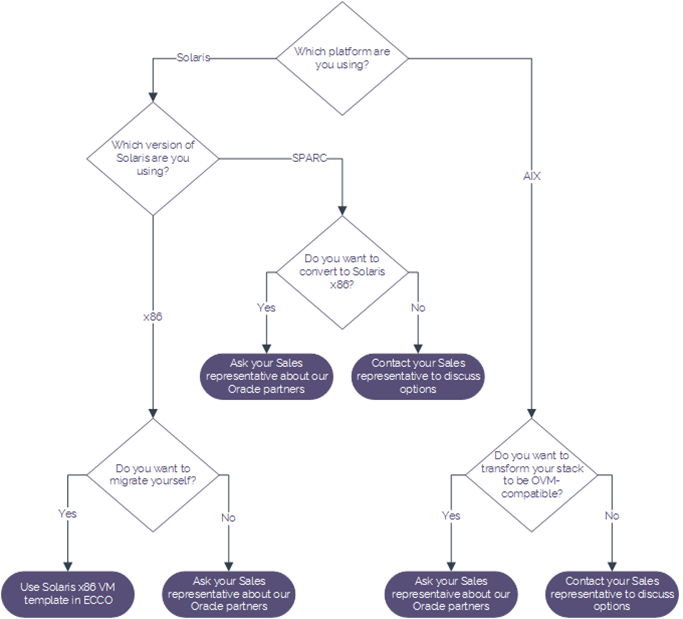
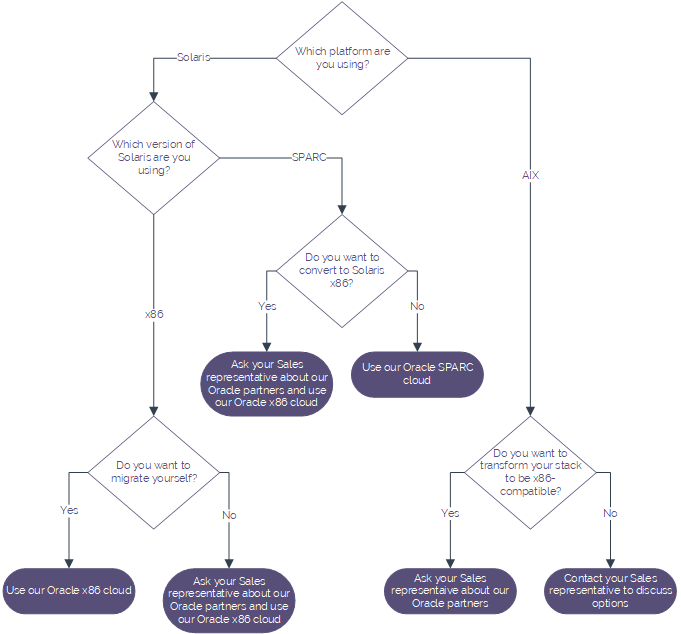
Review updates for Oracle articles

diff --git a/articles/oracle/orcl-ref-solaris-aix.md b/articles/oracle/orcl-ref-solaris-aix.md
@@ -3,8 +3,8 @@ title: Compatibility with Solaris and AIX | UKCloud Ltd
 description: Provides advice on how to migrate your applications to UKCloud for Oracle Software depending on the Oracle platform you're using
 services: oracle
 author: Sue Highmoor
-reviewer:
-lastreviewed: 12/10/2018 17:42:06
+reviewer: bchallis
+lastreviewed: 24/01/2020
 
 toc_rootlink: Reference
 toc_sub1: 
@@ -30,15 +30,15 @@ Use the diagram below to determine if your current platform is compatible with o
 
 ## Solaris x86
 
-As Solaris x86 is compatible with virtualisation, it's possible to bring your Solaris workload to our Oracle cloud. We provide a Solaris x86 template for you to use to build your Oracle virtual machines.
+Solaris x86 is compatible with our x86 Oracle cloud service so you can bring your Solaris workload to us. We provide a Solaris x86 template for you to use to build your Oracle virtual machines.
 
 You may need to talk to your Service Delivery Manager or Cloud Architect to help with the specifics of the project.
 
 ## Solaris SPARC
 
-SPARC is a flavour of Solaris that requires SPARC servers to function. However, it may be possible to transform your workload to be compatible with OVM by converting it to Solaris x86.
+We support Solaris on our Oracle SPARC cloud so you can bring your Solaris SPARC workloads to us without needing to transform them.
 
-If you want to use UKCloud for Oracle Software with SPARC, contact your Service Delivery Manager or Cloud Architect to discuss how you could achieve this.
+If you want to use UKCloud for Oracle Software with SPARC, contact your Service Delivery Manager or Cloud Architect to help with the specifics of the project.
 
 ## AIX
 

diff --git a/articles/oracle/orcl-ref-bug-self-service.md b/articles/oracle/orcl-ref-bug-self-service.md
@@ -3,8 +3,8 @@ title: Oracle cloud self-service functionality (bug notification) | UKCloud Ltd
 description: Contains information about changes to the self-service functionality for UKCloud for Oracle Software
 services: oracle
 author: Sue Highmoor
-reviewer:
-lastreviewed: 19/07/2018 15:17:17
+reviewer: bchallis
+lastreviewed: 24/01/2020
 toc_rootlink: Reference
 toc_sub1: 
 toc_sub2:

diff --git a/articles/oracle/orcl-ref-vm-compatibility.md b/articles/oracle/orcl-ref-vm-compatibility.md
@@ -3,8 +3,8 @@ title: VM compatibility with UKCloud for Oracle Software | UKCloud Ltd
 description: Provides information about the compatibility of Oracle virtual machines with UKCloud for Oracle Software
 services: oracle
 author: Sue Highmoor
-reviewer:
-lastreviewed: 16/07/2018 12:32:29
+reviewer: bchallis
+lastreviewed: 24/01/2020
 toc_rootlink: Reference
 toc_sub1: 
 toc_sub2:
